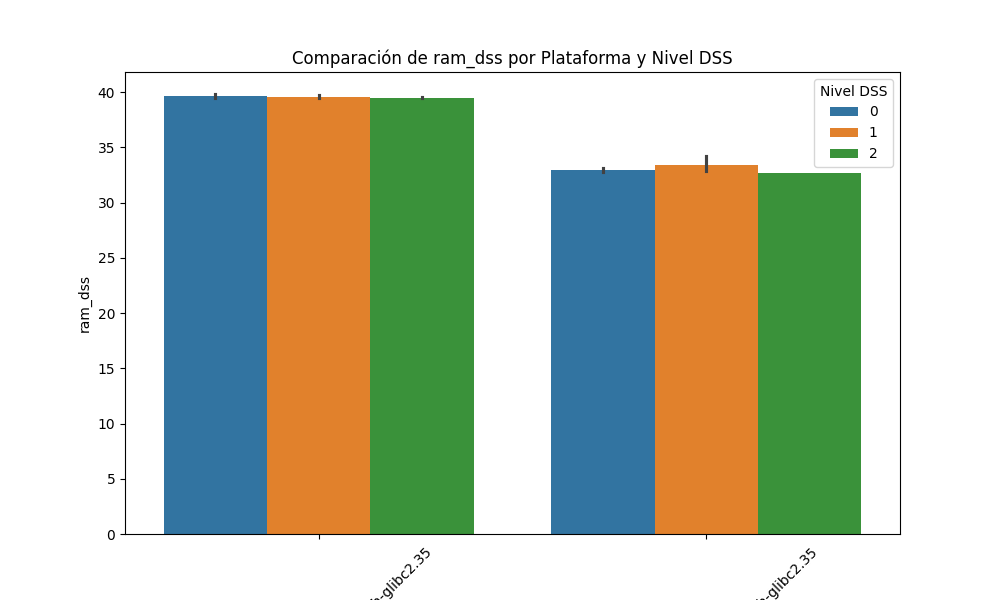
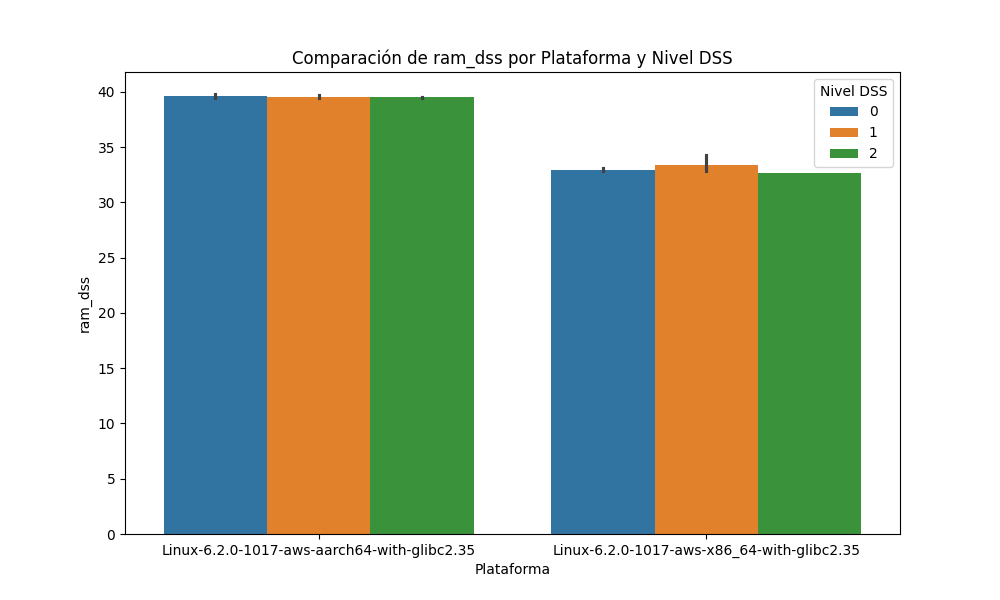
feat: visualizaciones con leyendas legibles para plataforma

diff --git a/visualizaciones.py b/visualizaciones.py
@@ -110,7 +110,7 @@ for column in comparison_columns:
     plt.title(f'Comparación de {column} por Plataforma y Nivel DSS')
     plt.xlabel('Plataforma')
     plt.ylabel(column)
-    plt.xticks(rotation=45)
+    plt.xticks(rotation=0)
     plt.legend(title='Nivel DSS')
 
     # Guardar la gráfica en la carpeta 'graficas'
@@ -128,7 +128,7 @@ for column in comparison_columns:
     plt.title(f'Comparación de {column} por Plataforma y Nivel DSS')
     plt.xlabel('Plataforma')
     plt.ylabel(column)
-    plt.xticks(rotation=45)
+    plt.xticks(rotation=0)
     plt.legend(title='Nivel DSS')
 
     # Guardar la gráfica en la carpeta 'graficas'
